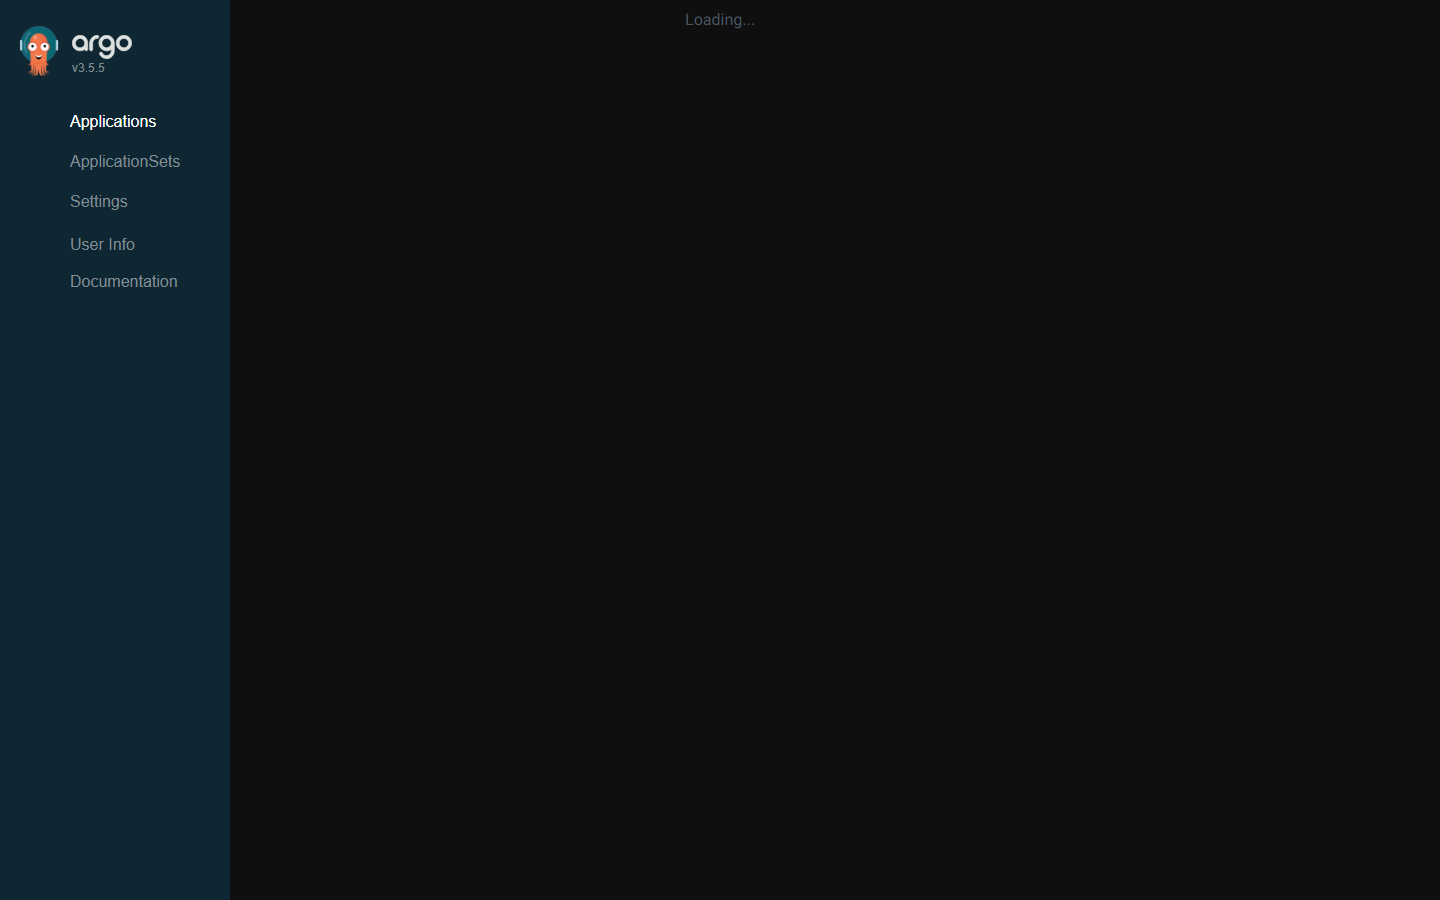
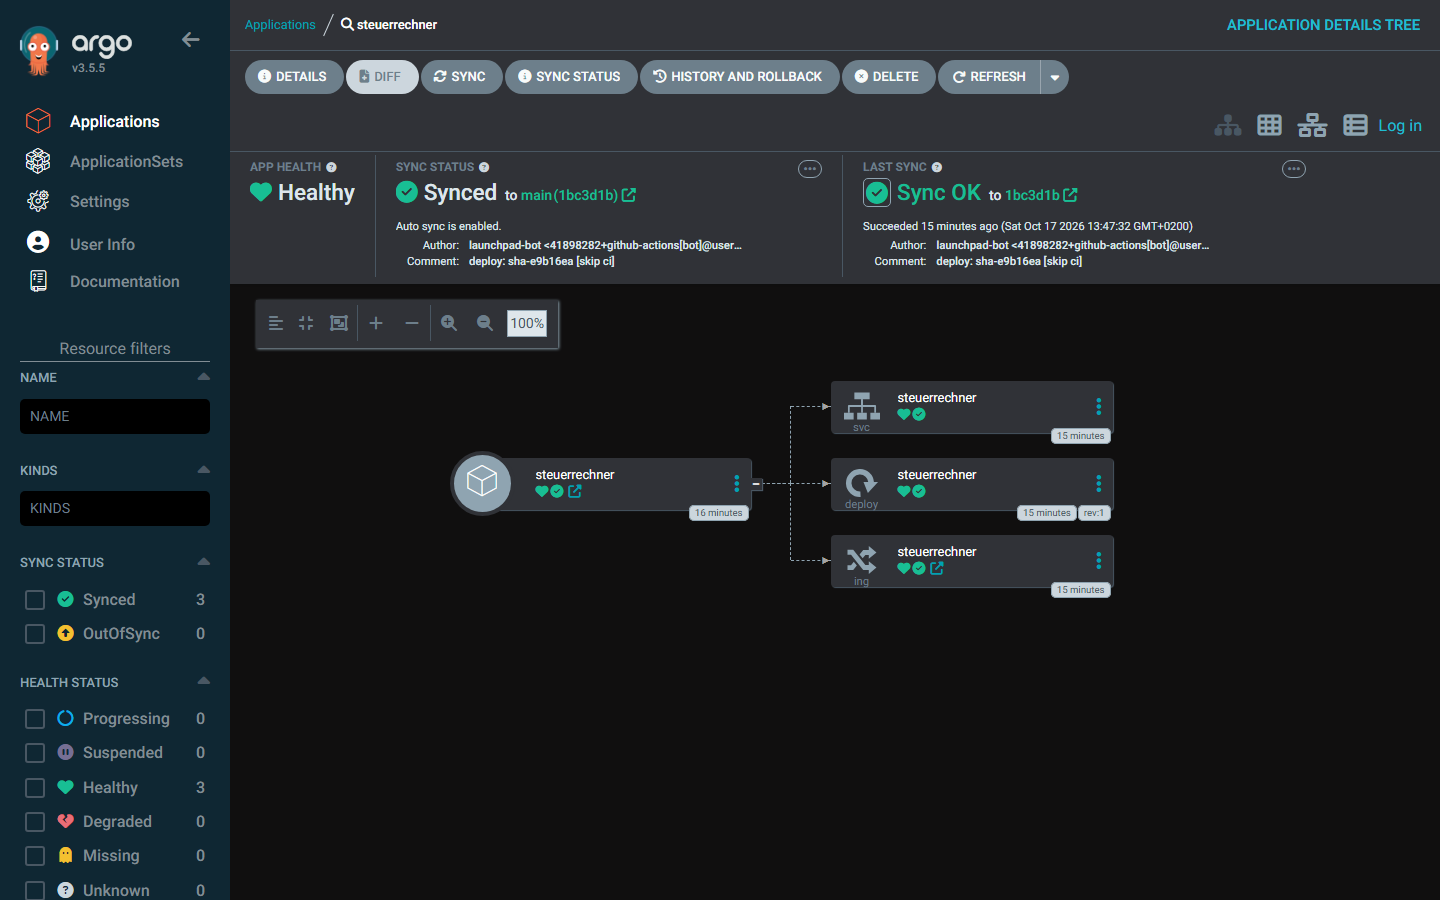
README: screenshots from the real cluster; dashboard table without duplicate namespace columns

diff --git a/README.md b/README.md
@@ -156,7 +156,27 @@ launchpad.ps1     Windows entry point
 
 ## Screenshots
 
-Screenshots of the portal, Argo CD and Grafana are in [`docs/screenshots`](docs/screenshots).
+All taken from the real cluster on my laptop.
+
+**Portal**: every app with health, sync state and the image that really runs
+
+![LAUNCHPAD portal](docs/screenshots/portal-live.png)
+
+**New app**: name, template, description. The preview shows repo, image and URL before anything is created.
+
+![New app drawer](docs/screenshots/portal-new-app.png)
+
+**Argo CD**: the `platform` app-of-apps, synced to the latest commit
+
+![Argo CD platform tree](docs/screenshots/argocd-platform.png)
+
+**Argo CD**: one tenant app, deployed from its own `deploy/` folder. The last sync is the pipeline's tag commit.
+
+![Argo CD app tree](docs/screenshots/argocd-app.png)
+
+**Grafana**: the LAUNCHPAD dashboard with requests, p95 latency, CPU, memory, Argo CD state and logs from Loki
+
+![Grafana dashboard](docs/screenshots/grafana-apps.png)
 
 ## License
 
